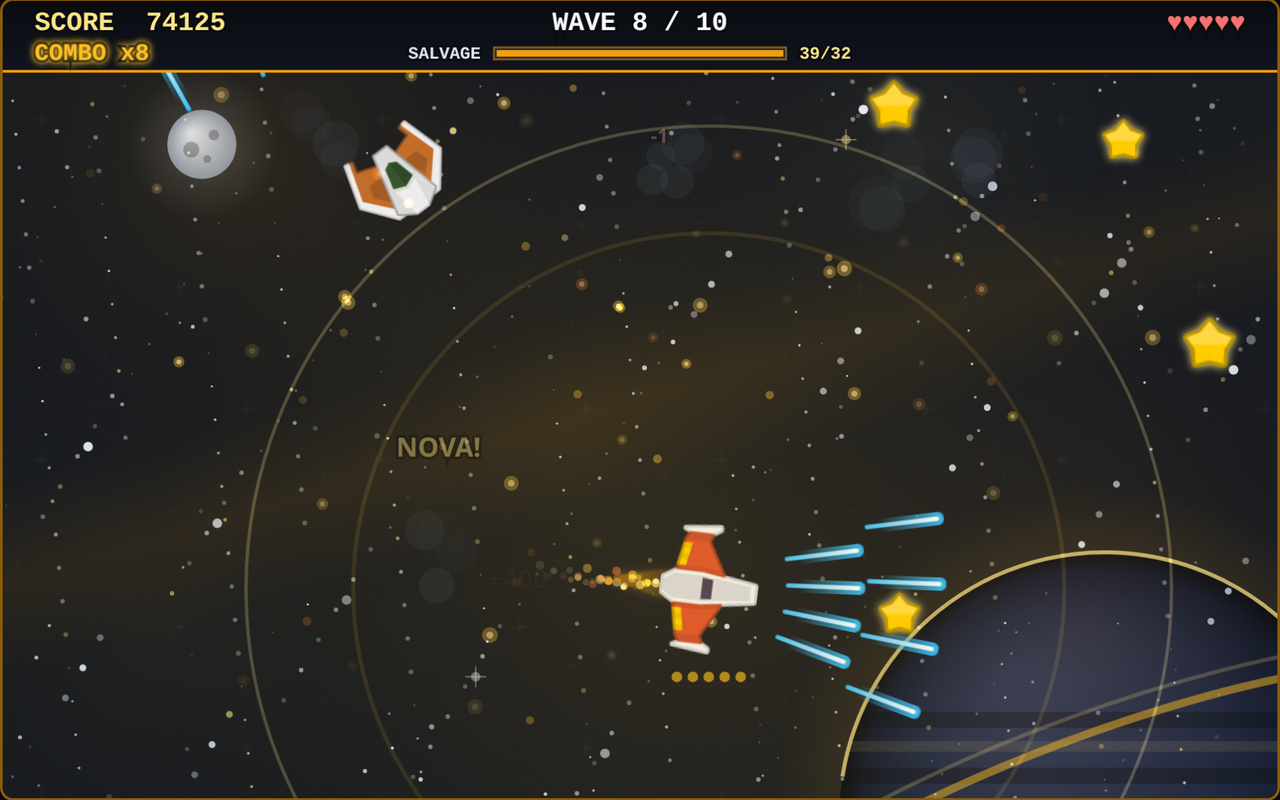
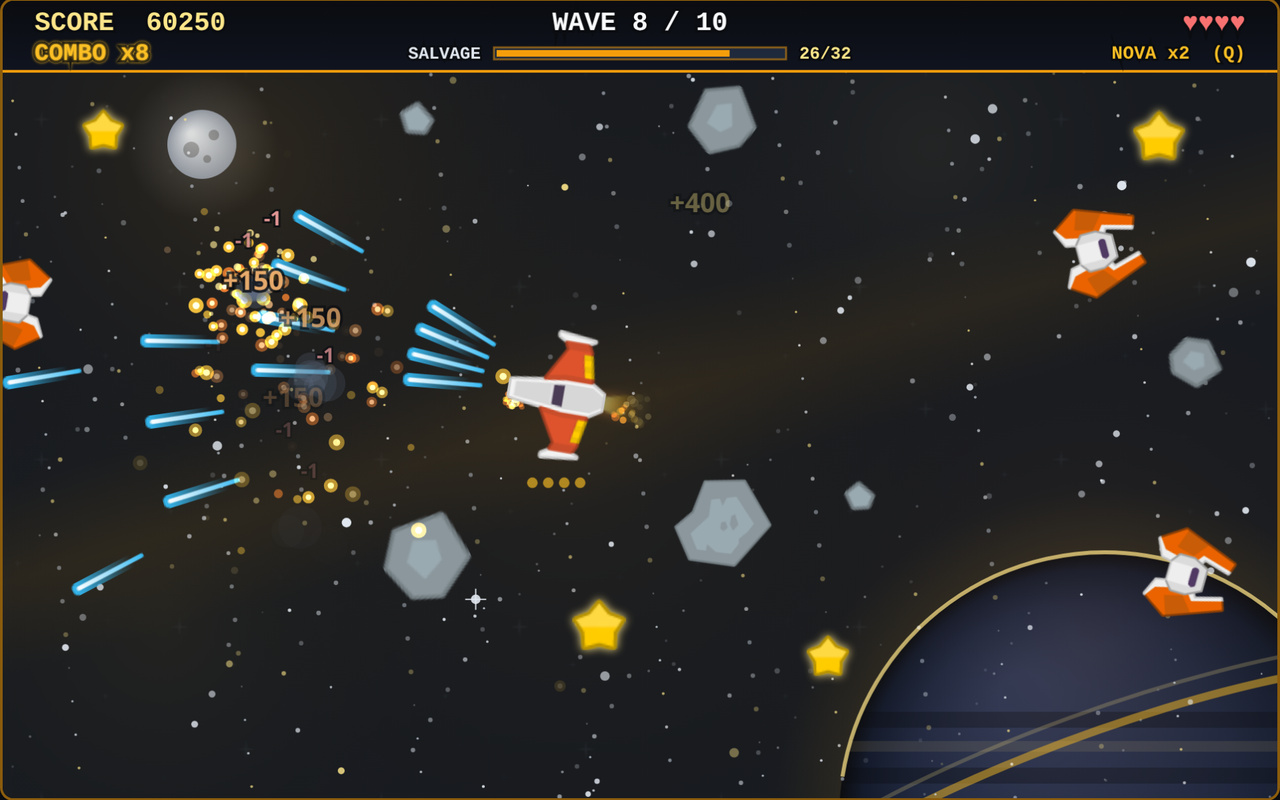
Multi-kill burst play shot: picker hunts 2 kills in 0.5s + 3 live foes, seed 3; NOVA! text brighter/longer

diff --git a/game/src/shots.js b/game/src/shots.js
@@ -12,6 +12,17 @@ const PLAY_LIMIT_SECONDS = 150; // long enough to reach the busy late waves
 const END_LIMIT_SECONDS = 600;
 const SAMPLE_STEPS = 15; // sample the frame every 0.25 s
 
+/** Entities per quadrant (split at the field centre): a frame whose action
+ * lives in only one or two quadrants reads as half-empty, however busy it
+ * is. Bottom-left was the emptiest quadrant in the last play shot. */
+function quadrants(s) {
+  const q = [0, 0, 0, 0];
+  for (const e of [...s.drifters, ...s.spitters, ...s.asteroids, ...s.shards]) {
+    q[(e.x < 480 ? 0 : 1) + (e.y < 326 ? 0 : 2)] += 1;
+  }
+  return q;
+}
+
 /** How readable/exciting a frame is: foes, shards, bolts and particles on
  * screen, plus real progress (salvage > 0, combo going) — and, since the
  * last pass, COMPOSITION: the ship must sit in a power zone (lower-left
@@ -52,6 +63,11 @@ function frameScore(s) {
   comp += 6 * band.filter((n) => n >= 2).length; // every populated band pays
   if (band[2] === 0) comp -= 12; // bottom third empty: half the frame dead
   if (band[0] > 0.75 * all.length) comp -= 10; // everything piled at the top
+  // Quadrant spread: action in every quadrant, not one corner doing all
+  // the work. Bottom-left was the emptiest quadrant in the last play shot.
+  const quad = quadrants(s);
+  if (quad.every((n) => n >= 1)) comp += 8;
+  comp += 3 * quad.filter((n) => n >= 2).length;
   // Foes half-clipped by an edge read as a mistake in a poster frame.
   for (const f of [...s.drifters, ...s.spitters]) {
     if (f.x < 40 || f.x > 920 || f.y < 100 || f.y > 560) comp -= 3;
@@ -175,6 +191,21 @@ export function stageShot(name, world) {
   let novaFired = false;
   let peakUntil = -1;
   let bestPeak = null;
+  // Multi-kill burst (play shot only): the last frame was a Nova aftermath
+  // with one foe left, so the picker now hunts a window where >=2 foes die
+  // close together AND >=3 foes are still alive — explosions plus a battle,
+  // not one or the other. Kills are tracked by step index in a rolling
+  // 30-step (0.5 s) window: that is the span in which two kill bursts are
+  // both still burning on screen (burst particles live 0.25–1.1 s, score
+  // popups 1.25 s). A 15-step (0.25 s) window was measured first and is
+  // unreachable in real play — 0 occurrences across 5 seeds, because a foe
+  // takes 2–3 bolt hits and kills spread out; the 0.5 s window occurs
+  // naturally (seed 3, wave 8: two kills 15 steps apart, 13 bolts up).
+  // A Nova's mass kill never counts: the log is cleared the step a Nova
+  // fires, so a burst window is always bolt kills.
+  let prevKills = 0;
+  const killLog = [];
+  let bestBurst = null;
   function aimAligned(s) {
     if (!s.bolts.length) return false;
     let mx = 0;
@@ -204,6 +235,37 @@ export function stageShot(name, world) {
       world.applyUpgrade(choices[0]);
       world.startWave(state.wave + 1);
     }
+    // Multi-kill burst tracking (play shot only): log each foe death by
+    // step, drop entries older than 30 steps, and consider the frame only
+    // while >=2 kills sit inside the window, >=3 foes are still alive,
+    // >=10 bolts/orbs are flying, the ship is in frame, and the action
+    // spreads across all four quadrants. The popup check is the visibility
+    // proof: '+150'/'+250' are foe-kill scores, so >=2 of them on screen
+    // means two bursts are actually burning in the frame right now, not
+    // just logged recently. (A shard pickup at combo 3 also prints '+150',
+    // so the popup count alone never proves a burst — the kill log does.)
+    if (name === 'play') {
+      const dk = state.kills - prevKills;
+      prevKills = state.kills;
+      if (useNova) killLog.length = 0;
+      else for (let k = 0; k < dk; k += 1) killLog.push(i);
+      while (killLog.length && killLog[0] <= i - 30) killLog.shift();
+      const killPopups = state.texts.filter((t) => t.text === '+150' || t.text === '+250').length;
+      const foes = state.drifters.length + state.spitters.length;
+      const quad = quadrants(state);
+      if (killLog.length >= 2 && killPopups >= 2 && foes >= 3
+        && state.bolts.length + state.orbs.length >= 10
+        && state.salvage > 0 && state.shards.length >= 2
+        && state.player.x > 160 && state.player.x < 820
+        && state.player.y > 170 && state.player.y < 520
+        && quad.every((n) => n >= 1) && aimAligned(state)) {
+        const burstScore = frameScore(state) + 40 + killLog.length * 10 + killPopups * 8
+          + (state.novaFlash > 0 ? 25 : 0);
+        if (!bestBurst || burstScore > bestBurst.score) {
+          bestBurst = { score: burstScore, snap: structuredClone(state) };
+        }
+      }
+    }
     if (name === 'play' && i <= peakUntil && peakUntil >= 0
       && state.drifters.length + state.spitters.length >= 1
       && state.particles.length >= 40
@@ -229,9 +291,14 @@ export function stageShot(name, world) {
     return { screen: SCREEN_OVER, best: state.score };
   }
   const normalBest = bestAligned ?? best;
-  const chosen = (bestPeak && bestPeak.score > (normalBest?.score ?? 0) + 10)
+  // Priority: a multi-kill burst frame (explosions AND live foes) beats a
+  // Nova peak (explosions, foes cleared) and a normal dense frame (foes,
+  // no burst). If no burst window ever qualified, fall back exactly as
+  // before, so a seed without one still produces the best frame it has.
+  let chosen = (bestPeak && bestPeak.score > (normalBest?.score ?? 0) + 10)
     ? bestPeak
     : normalBest;
+  if (bestBurst) chosen = bestBurst;
   if (chosen) {
     // Restore the chosen frame in place (same object the renderer reads).
     for (const k of Object.keys(state)) delete state[k];

diff --git a/game/src/world.js b/game/src/world.js
@@ -89,14 +89,17 @@ export function createWorld(random) {
     vfxBurst(x, y, '#fde68a', 10, 140, 420, 0.25, 0.6, 1.5, 3);
     vfxBurst(x, y, '#64748b', 6, 8, 40, 0.6, 1.1, 5, 9, true);
   }
-  function floatText(x, y, text, color, size) {
+  function floatText(x, y, text, color, size, life) {
     // Stack floats apart: rapid pickups (+400, +400, +400) must never print
     // on top of each other.
     let yy = y;
     for (const t of state.texts) {
       if (Math.abs(t.x - x) < 70 && Math.abs(t.y - yy) < 28) yy -= 28;
     }
-    state.texts.push({ x, y: yy, text, color, life: 1, size: size ?? 20 });
+    // `life` is how long the text stays fully readable: the default 1 s
+    // (1.25 s on screen, it fades at 0.8/s) is right for score popups, but
+    // a banner like NOVA! needs to survive until a staged frame samples it.
+    state.texts.push({ x, y: yy, text, color, life: life ?? 1, size: size ?? 20 });
   }
 
   function startWave(wave) {
@@ -165,7 +168,9 @@ export function createWorld(random) {
     state.drifters = []; state.spitters = []; state.asteroids = []; state.orbs = [];
     burst(state.player.x, state.player.y, '#fbbf24', 40);
     killBurst(state.player.x, state.player.y);
-    floatText(state.player.x, state.player.y - 60, 'NOVA!', '#fde68a');
+    // Big, bright, long-lived: the last play shot caught NOVA! at life ~0.2
+    // and it read as a dim smudge. Near-white gold, 34 px, 2 s on screen.
+    floatText(state.player.x, state.player.y - 60, 'NOVA!', '#fff7d6', 34, 1.6);
     return EVENT_KILL;
   }
 
